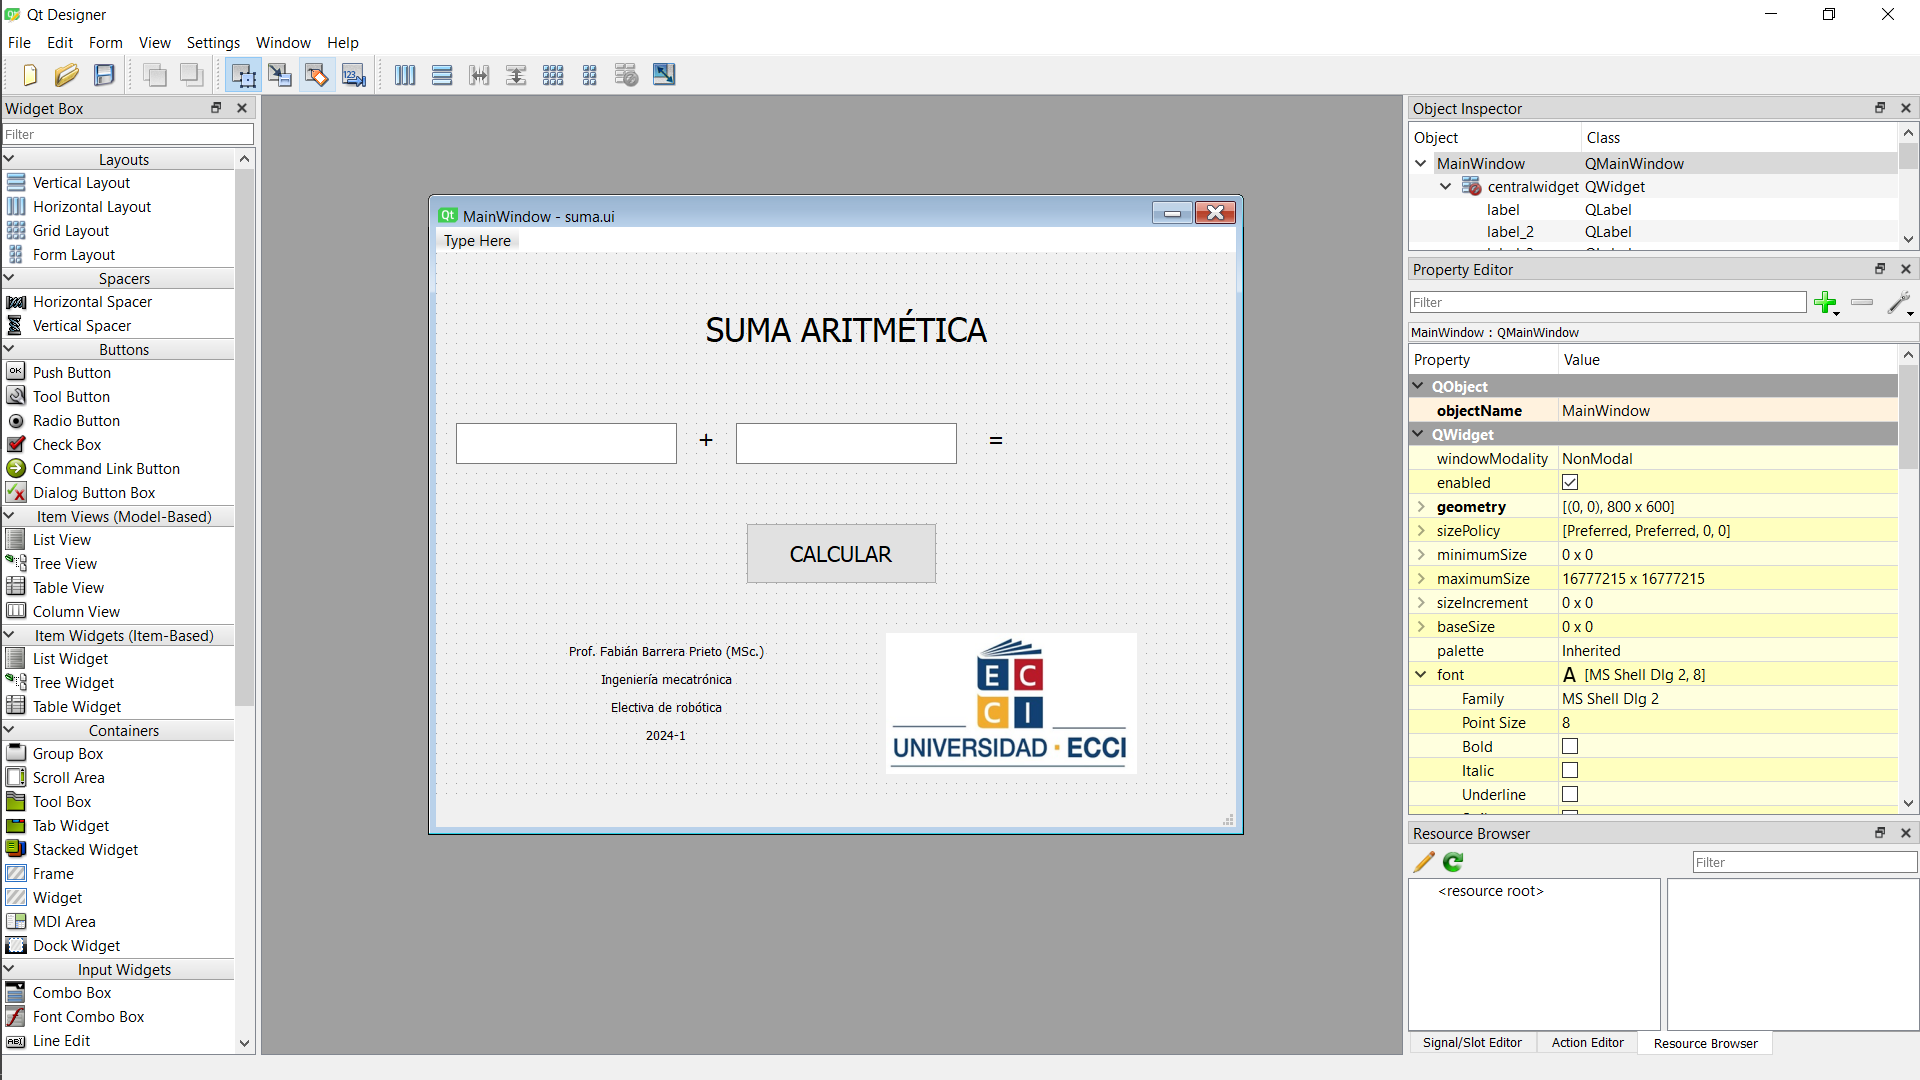
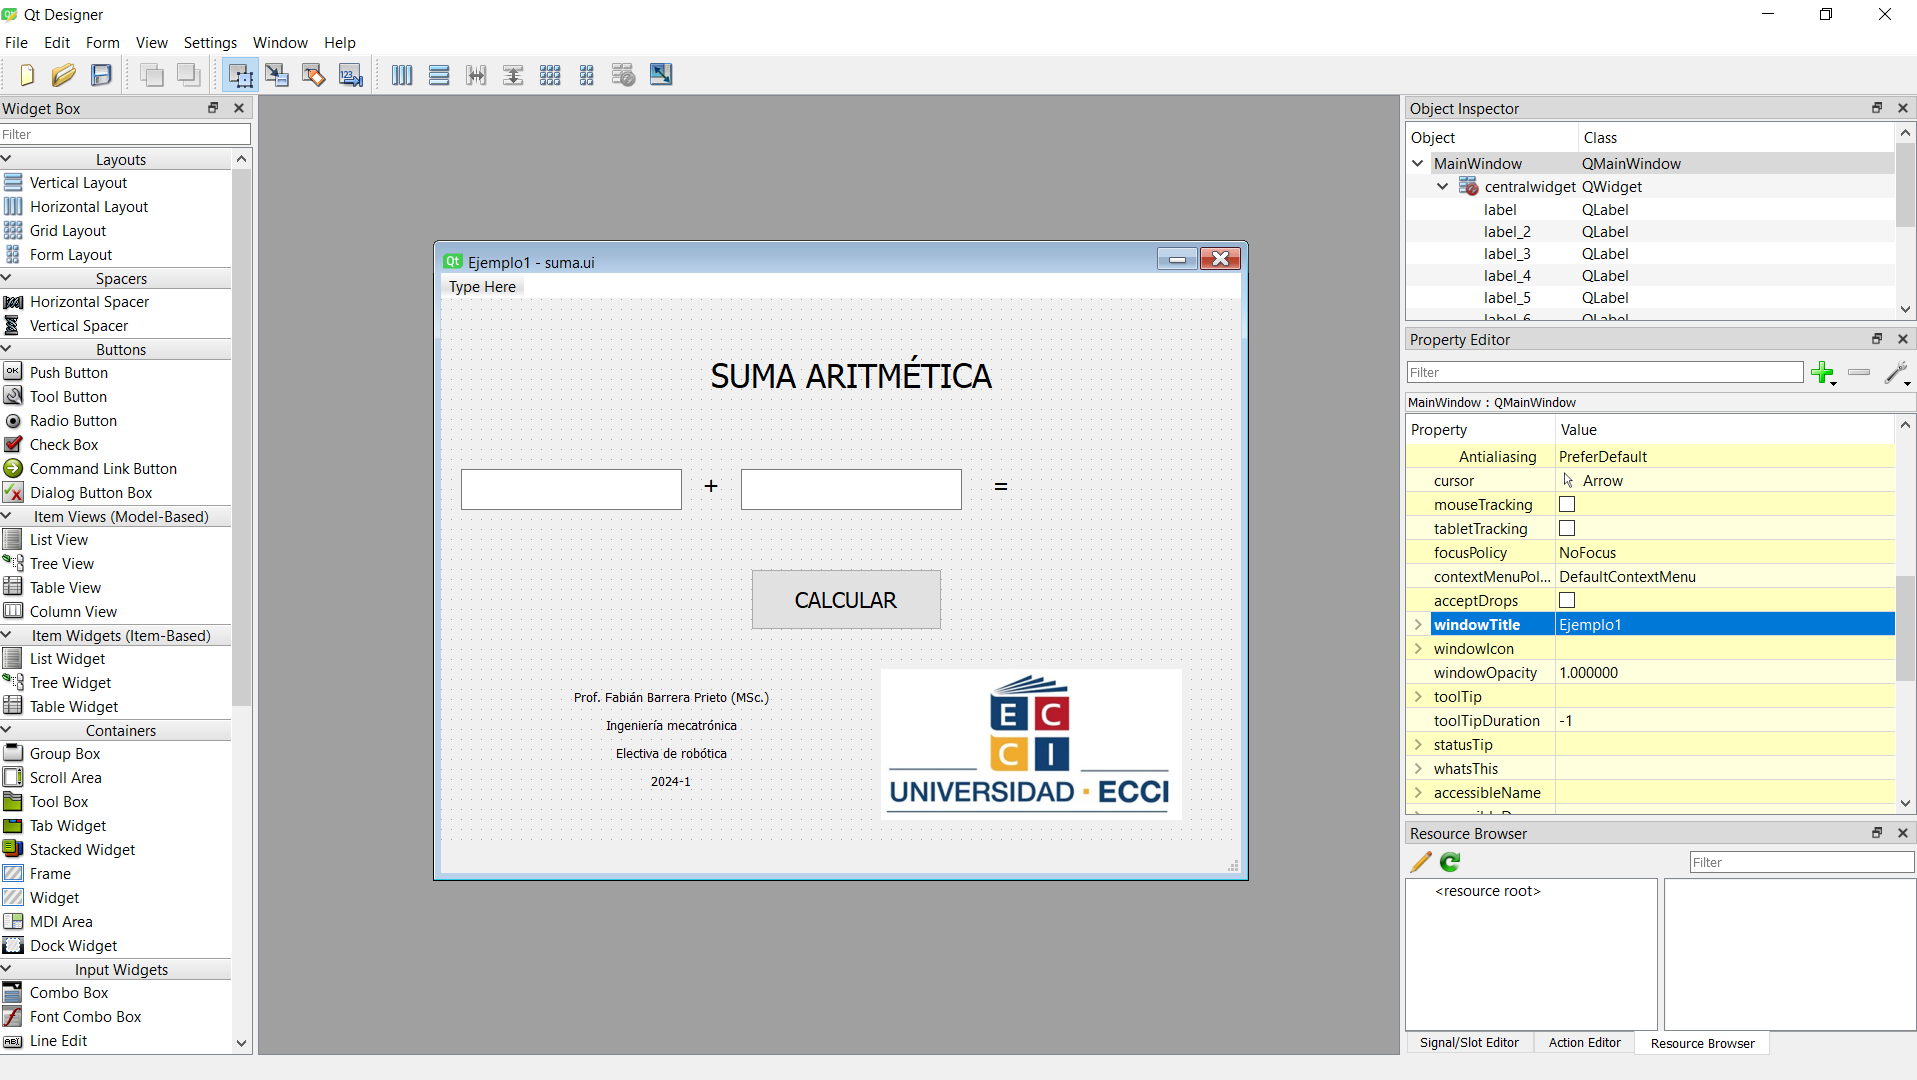
suma.py

diff --git a/Aula2/suma.py b/Aula2/suma.py
@@ -98,7 +98,7 @@ class Ui_MainWindow(object):
 
     def retranslateUi(self, MainWindow):
         _translate = QtCore.QCoreApplication.translate
-        MainWindow.setWindowTitle(_translate("MainWindow", "MainWindow"))
+        MainWindow.setWindowTitle(_translate("MainWindow", "Ejemplo1"))
         self.pushButton.setText(_translate("MainWindow", "CALCULAR"))
         self.label_2.setText(_translate("MainWindow", "+"))
         self.textEdit.setHtml(_translate("MainWindow", "<!DOCTYPE HTML PUBLIC \"-//W3C//DTD HTML 4.0//EN\" \"http://www.w3.org/TR/REC-html40/strict.dtd\">\n"
@@ -115,13 +115,13 @@ class Ui_MainWindow(object):
         self.label_4.setText(_translate("MainWindow", "SUMA ARITMÉTICA"))
         self.label_5.setText(_translate("MainWindow", "<html><head/><body><p align=\"center\">Prof. Fabián Barrera Prieto (MSc.)</p><p align=\"center\">Ingeniería mecatrónica</p><p align=\"center\">Electiva de robótica</p><p align=\"center\">2024-1</p></body></html>"))
 
-
     #Función que se llama al presionar
     def Suma(self):
         a = self.textEdit.toPlainText()
         b = self.textEdit_2.toPlainText()
         c = int(a)+int(b)
         self.label.setText(str(c))
+
 
 if __name__ == "__main__":
     import sys

diff --git a/Aula2/README.md b/Aula2/README.md
@@ -102,6 +102,16 @@ pyuic5 -x nombre_archivo.ui -o nombre_archivo.py (ej: pyuic5 -x suma.ui -o suma.
 4. Realizar el back end de la interfaz gráfica, es decir, editar el archivo .py para realizar la suma de dos números cuando se presione el botón
 
 ```python
+# -*- coding: utf-8 -*-
+
+# Form implementation generated from reading ui file 'suma.ui'
+#
+# Created by: PyQt5 UI code generator 5.15.9
+#
+# WARNING: Any manual changes made to this file will be lost when pyuic5 is
+# run again.  Do not edit this file unless you know what you are doing.
+
+
 from PyQt5 import QtCore, QtGui, QtWidgets
 
 
@@ -165,12 +175,16 @@ class Ui_MainWindow(object):
         self.label_5 = QtWidgets.QLabel(self.centralwidget)
         self.label_5.setGeometry(QtCore.QRect(130, 370, 201, 141))
         self.label_5.setObjectName("label_5")
-        self.label_7 = QtWidgets.QLabel(self.centralwidget)
-        self.label_7.setGeometry(QtCore.QRect(450, 380, 251, 141))
-        self.label_7.setText("")
-        self.label_7.setPixmap(QtGui.QPixmap("ecci.jpg"))
-        self.label_7.setScaledContents(True)
-        self.label_7.setObjectName("label_7")
+        self.label_6 = QtWidgets.QLabel(self.centralwidget)
+        self.label_6.setGeometry(QtCore.QRect(440, 370, 301, 151))
+        font = QtGui.QFont()
+        font.setPointSize(14)
+        self.label_6.setFont(font)
+        self.label_6.setText("")
+        self.label_6.setPixmap(QtGui.QPixmap("Aula2/ecci.jpg"))
+        self.label_6.setScaledContents(True)
+        self.label_6.setAlignment(QtCore.Qt.AlignCenter)
+        self.label_6.setObjectName("label_6")
         MainWindow.setCentralWidget(self.centralwidget)
         self.menubar = QtWidgets.QMenuBar(MainWindow)
         self.menubar.setGeometry(QtCore.QRect(0, 0, 800, 26))
@@ -223,6 +237,8 @@ if __name__ == "__main__":
     sys.exit(app.exec_())
 ```
 5. Ejecutar el archivo .py para correr la aplicación
+
+![Alt text](image-1.png)
 
 <h1> Git hub </h1>
 https://docs.github.com/en/authentication/keeping-your-account-and-data-secure/managing-your-personal-access-tokens
